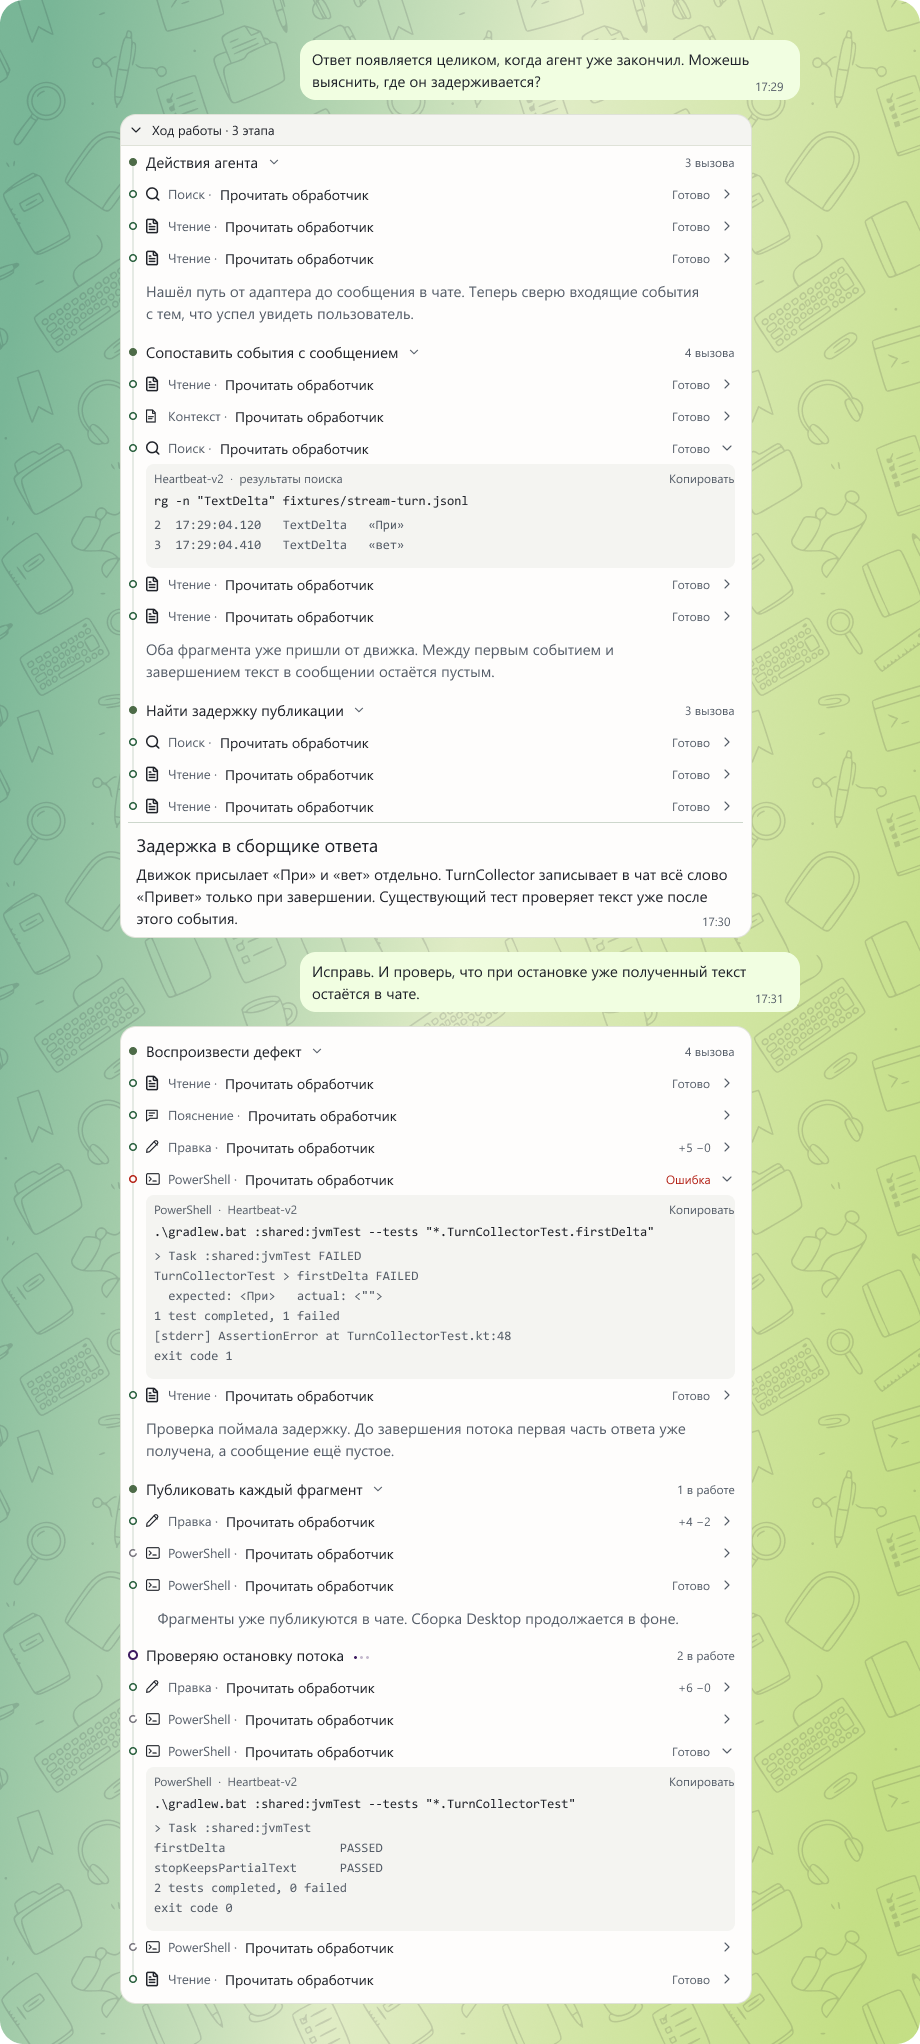
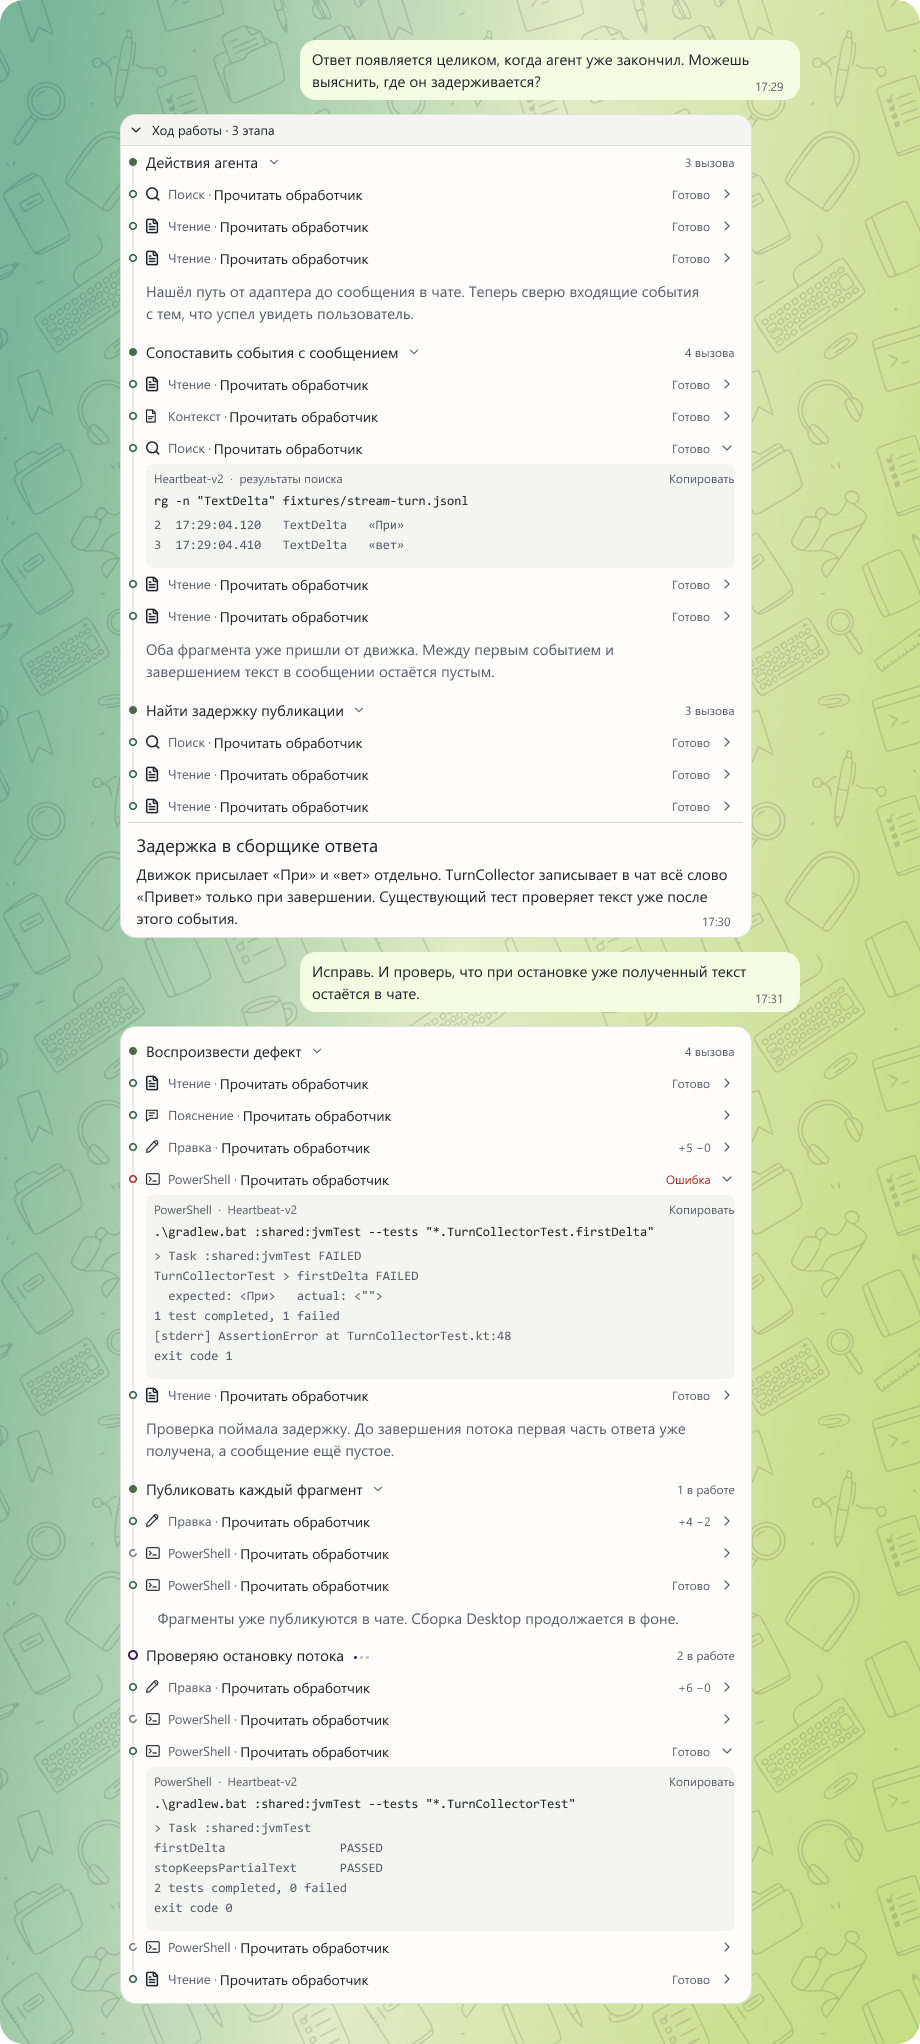
Balance optical spacing on either side of tool separators

diff --git a/specs/desktop-aurora-agent-workspace.md b/specs/desktop-aurora-agent-workspace.md
@@ -44,7 +44,7 @@
 
 Левый край текста заголовка этапа совпадает с внешним контуром иконки инструмента с учётом толщины штриха. Внутренние поля исходной пиктограммы учитываются отдельно для лупы, файла и остальных инструментов. [Фрагмент макета](../previews/desktop-agent-turns/stage-icon-alignment.png)
 
-В раскрытом этапе заголовок, промежуточный итог, колонка иконок инструментов и фон подробностей начинаются на одной вертикали. Колонка иконок имеет ширину 14 dp. Все названия операций начинаются через 8 dp от её правой границы и стоят на одной высоте внутри строки. Подпись занимает ширину текста вместе с разделителем «·», а через следующие 8 dp начинается путь или описание вызова. Длинный путь сокращается внутри своей колонки. Счётчик этапа и шевроны вызовов выровнены по правому краю. У раскрытого вывода внутренний отступ слева — 8 dp. [Снимок двух ходов](../previews/desktop-agent-turns/longread.png)
+В раскрытом этапе заголовок, промежуточный итог, колонка иконок инструментов и фон подробностей начинаются на одной вертикали. Колонка иконок имеет ширину 14 dp. Все названия операций начинаются через 8 dp от её правой границы и стоят на одной высоте внутри строки. Разделитель «·» стоит посередине между названием операции и описанием. Просветы измеряются от видимых границ ближайших букв до контура точки. Длинный путь сокращается внутри своей колонки. Счётчик этапа и шевроны вызовов выровнены по правому краю. У раскрытого вывода внутренний отступ слева — 8 dp. [Снимок двух ходов](../previews/desktop-agent-turns/longread.png)
 
 В хронологии маркеры занимают колонку шириной 10 dp с отступом 8 dp от левого края облачка. Линия проходит в 13 dp от края, через центры закрашенной точки диаметром 8 dp и фиолетового кольца диаметром 10 dp. При продолжении работы линия соединяет последнюю завершённую операцию и новый активный ход. [Снимок продолжения](../previews/desktop-agent-turns/resumed-timeline.png). [Снимок с тремя завершёнными этапами](../previews/desktop-agent-turns/stage-marker-inset.png)
 
